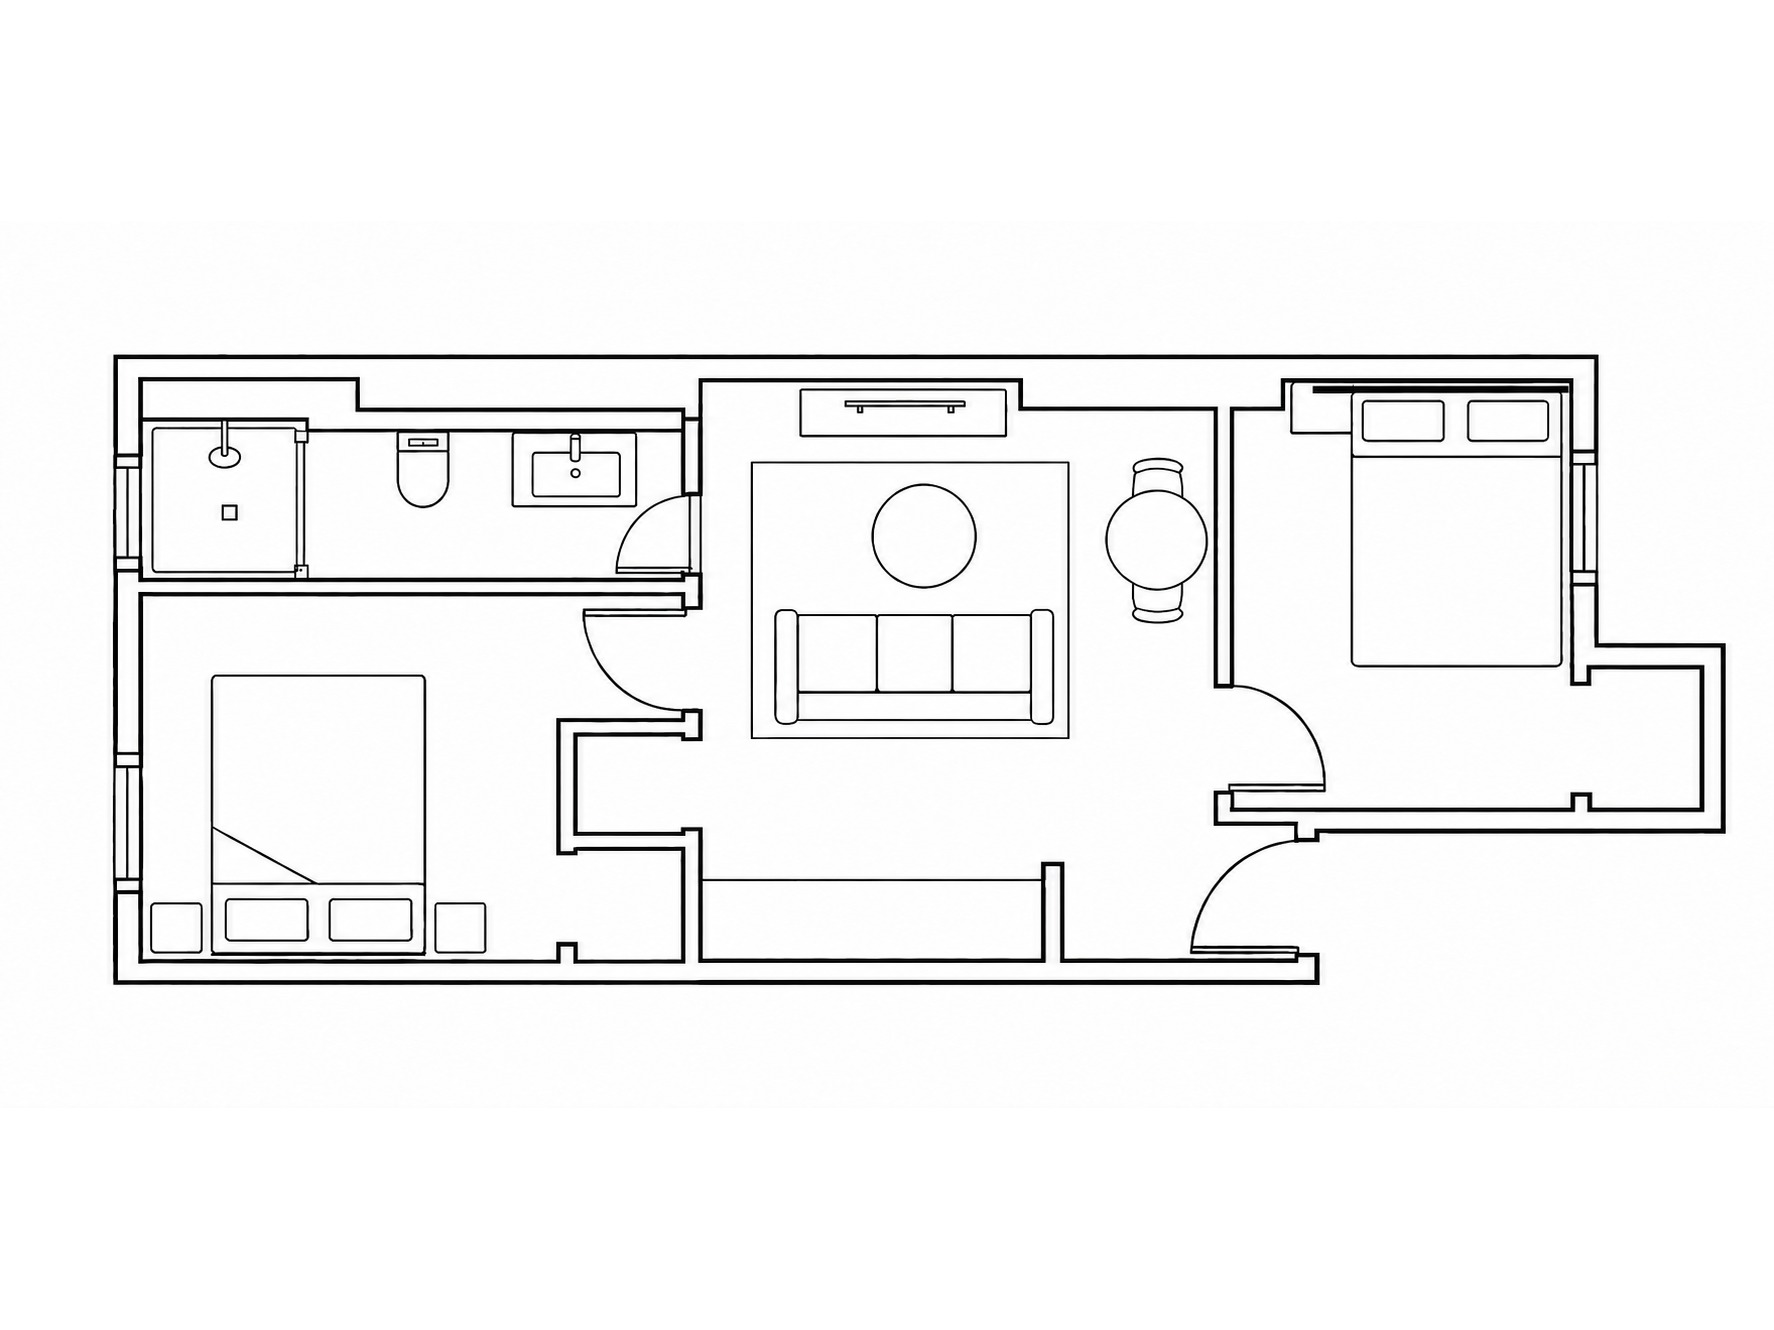
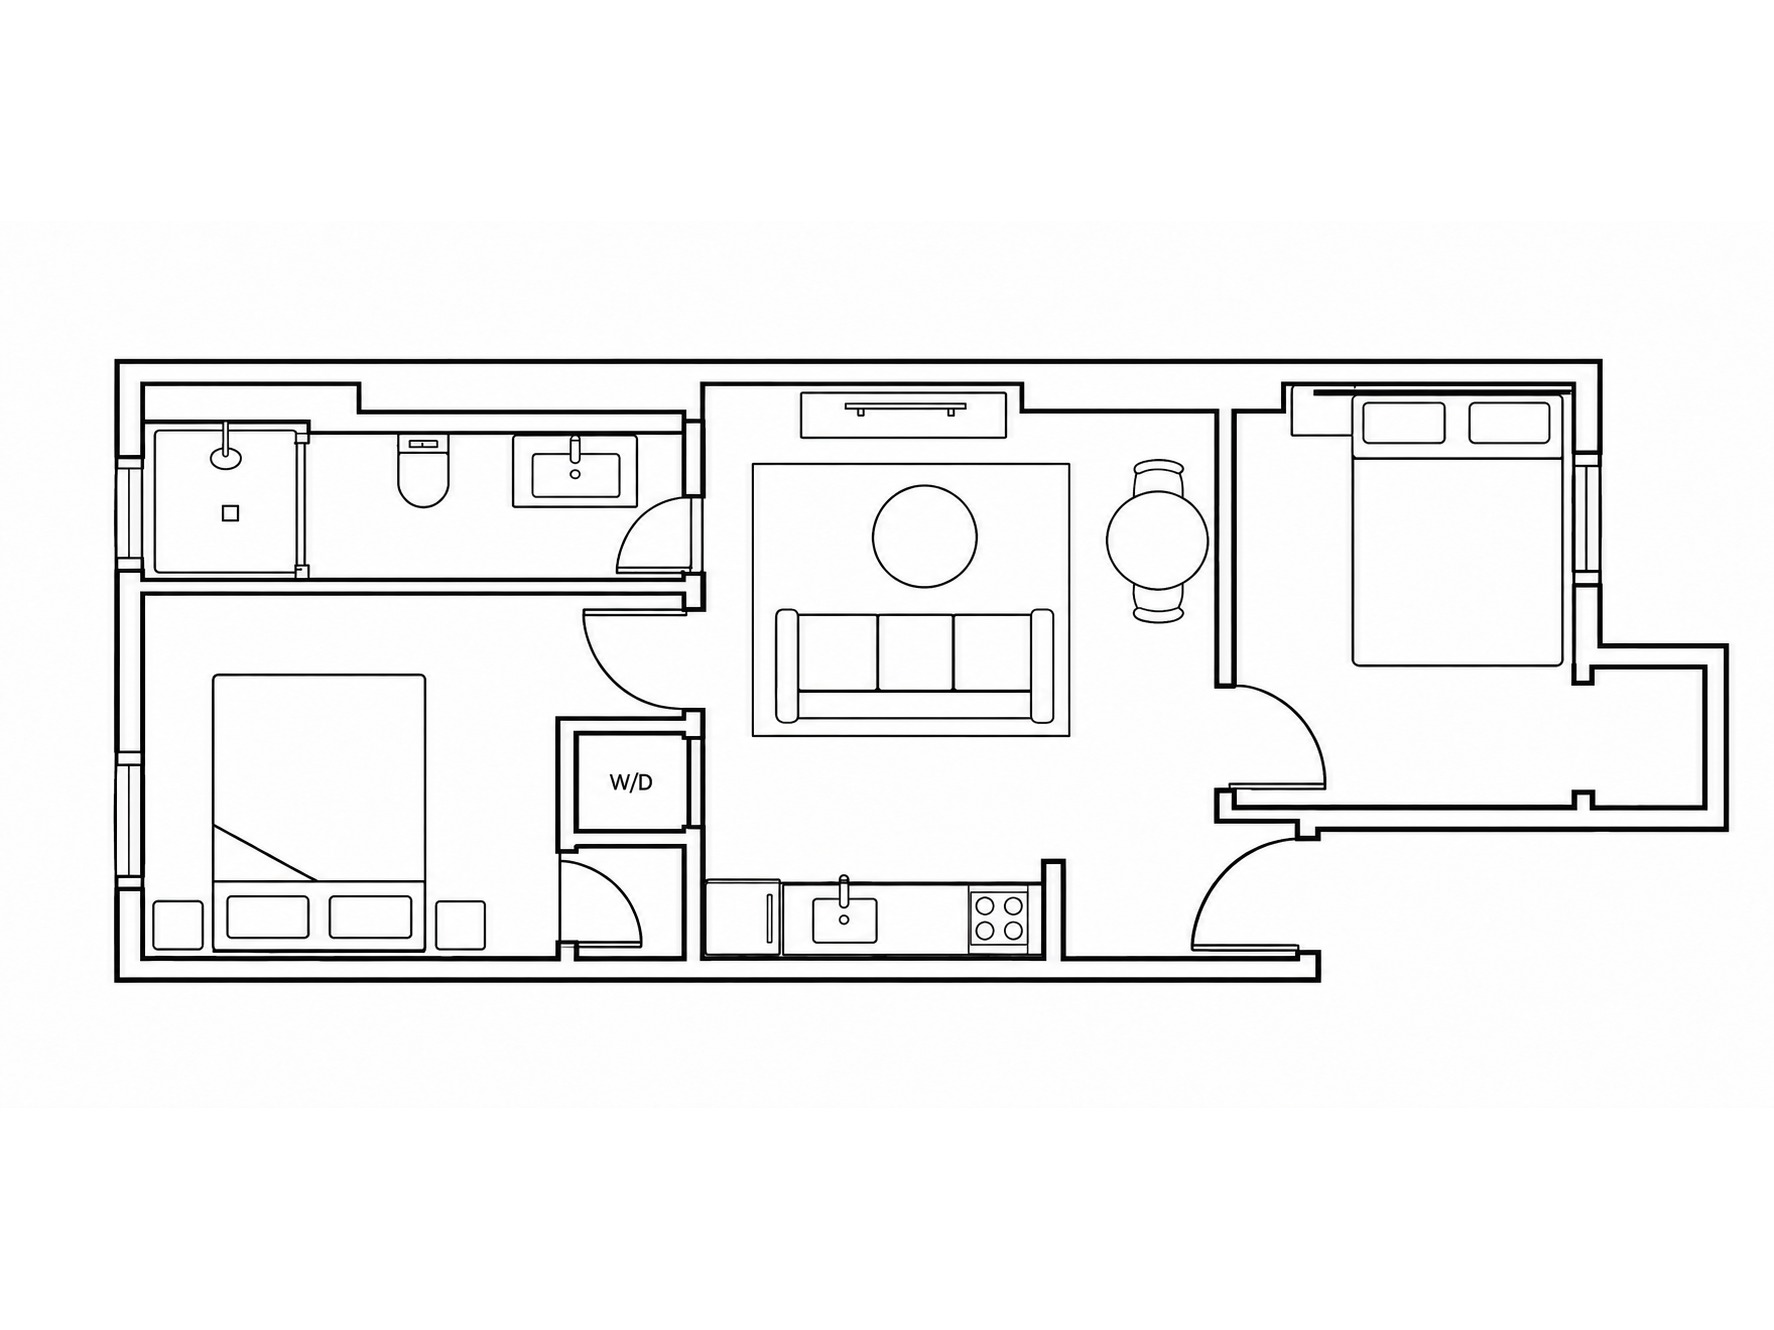
7 Rivington 10: revised floor plan
Adds the W/D closet and the kitchen run along the bottom wall, neither
of which was on the version pushed an hour ago. Filename unchanged, so
both refs carry ?v=2.

Changed region(s): [[0.062, 0.2466, 0.9301, 0.7398], [0.6821, 0.4932, 0.9921, 0.6782], [0.434, 0.4624, 0.6201, 0.5549]]

diff --git a/rivington-10.html b/rivington-10.html
@@ -145,7 +145,7 @@
       <div class="gimg" style="background-image:url('7-rivington-street-10-git/7-rivington-3.jpeg')" onclick="openLightbox(2)"></div>
       <div class="gimg" style="background-image:url('7-rivington-street-10-git/7-rivington-4.jpg')" onclick="openLightbox(3)"></div>
       <div class="gimg" style="background-image:url('7-rivington-street-10-git/7-rivington-5.jpg')" onclick="openLightbox(4)"></div>
-      <div class="gimg" style="background-image:url('7-rivington-street-10-git/7-rivington-floorplan.jpg');background-size:contain;background-repeat:no-repeat;background-color:#fff" onclick="openLightbox(5)"></div>
+      <div class="gimg" style="background-image:url('7-rivington-street-10-git/7-rivington-floorplan.jpg?v=2');background-size:contain;background-repeat:no-repeat;background-color:#fff" onclick="openLightbox(5)"></div>
       
   </section>
 
@@ -184,7 +184,7 @@
 
 <script src="https://unpkg.com/leaflet@1.9.4/dist/leaflet.js" integrity="sha384-cxOPjt7s7Iz04uaHJceBmS+qpjv2JkIHNVcuOrM+YHwZOmJGBXI00mdUXEq65HTH" crossorigin="anonymous" referrerpolicy="no-referrer"></script>
 <script>
-  const photos = ['7-rivington-street-10-git/7-rivington-1.jpeg','7-rivington-street-10-git/7-rivington-2.jpg','7-rivington-street-10-git/7-rivington-3.jpeg','7-rivington-street-10-git/7-rivington-4.jpg','7-rivington-street-10-git/7-rivington-5.jpg','7-rivington-street-10-git/7-rivington-floorplan.jpg'];
+  const photos = ['7-rivington-street-10-git/7-rivington-1.jpeg','7-rivington-street-10-git/7-rivington-2.jpg','7-rivington-street-10-git/7-rivington-3.jpeg','7-rivington-street-10-git/7-rivington-4.jpg','7-rivington-street-10-git/7-rivington-5.jpg','7-rivington-street-10-git/7-rivington-floorplan.jpg?v=2'];
   let currentPhoto = 0;
   function openLightbox(i) {
     currentPhoto = i;
